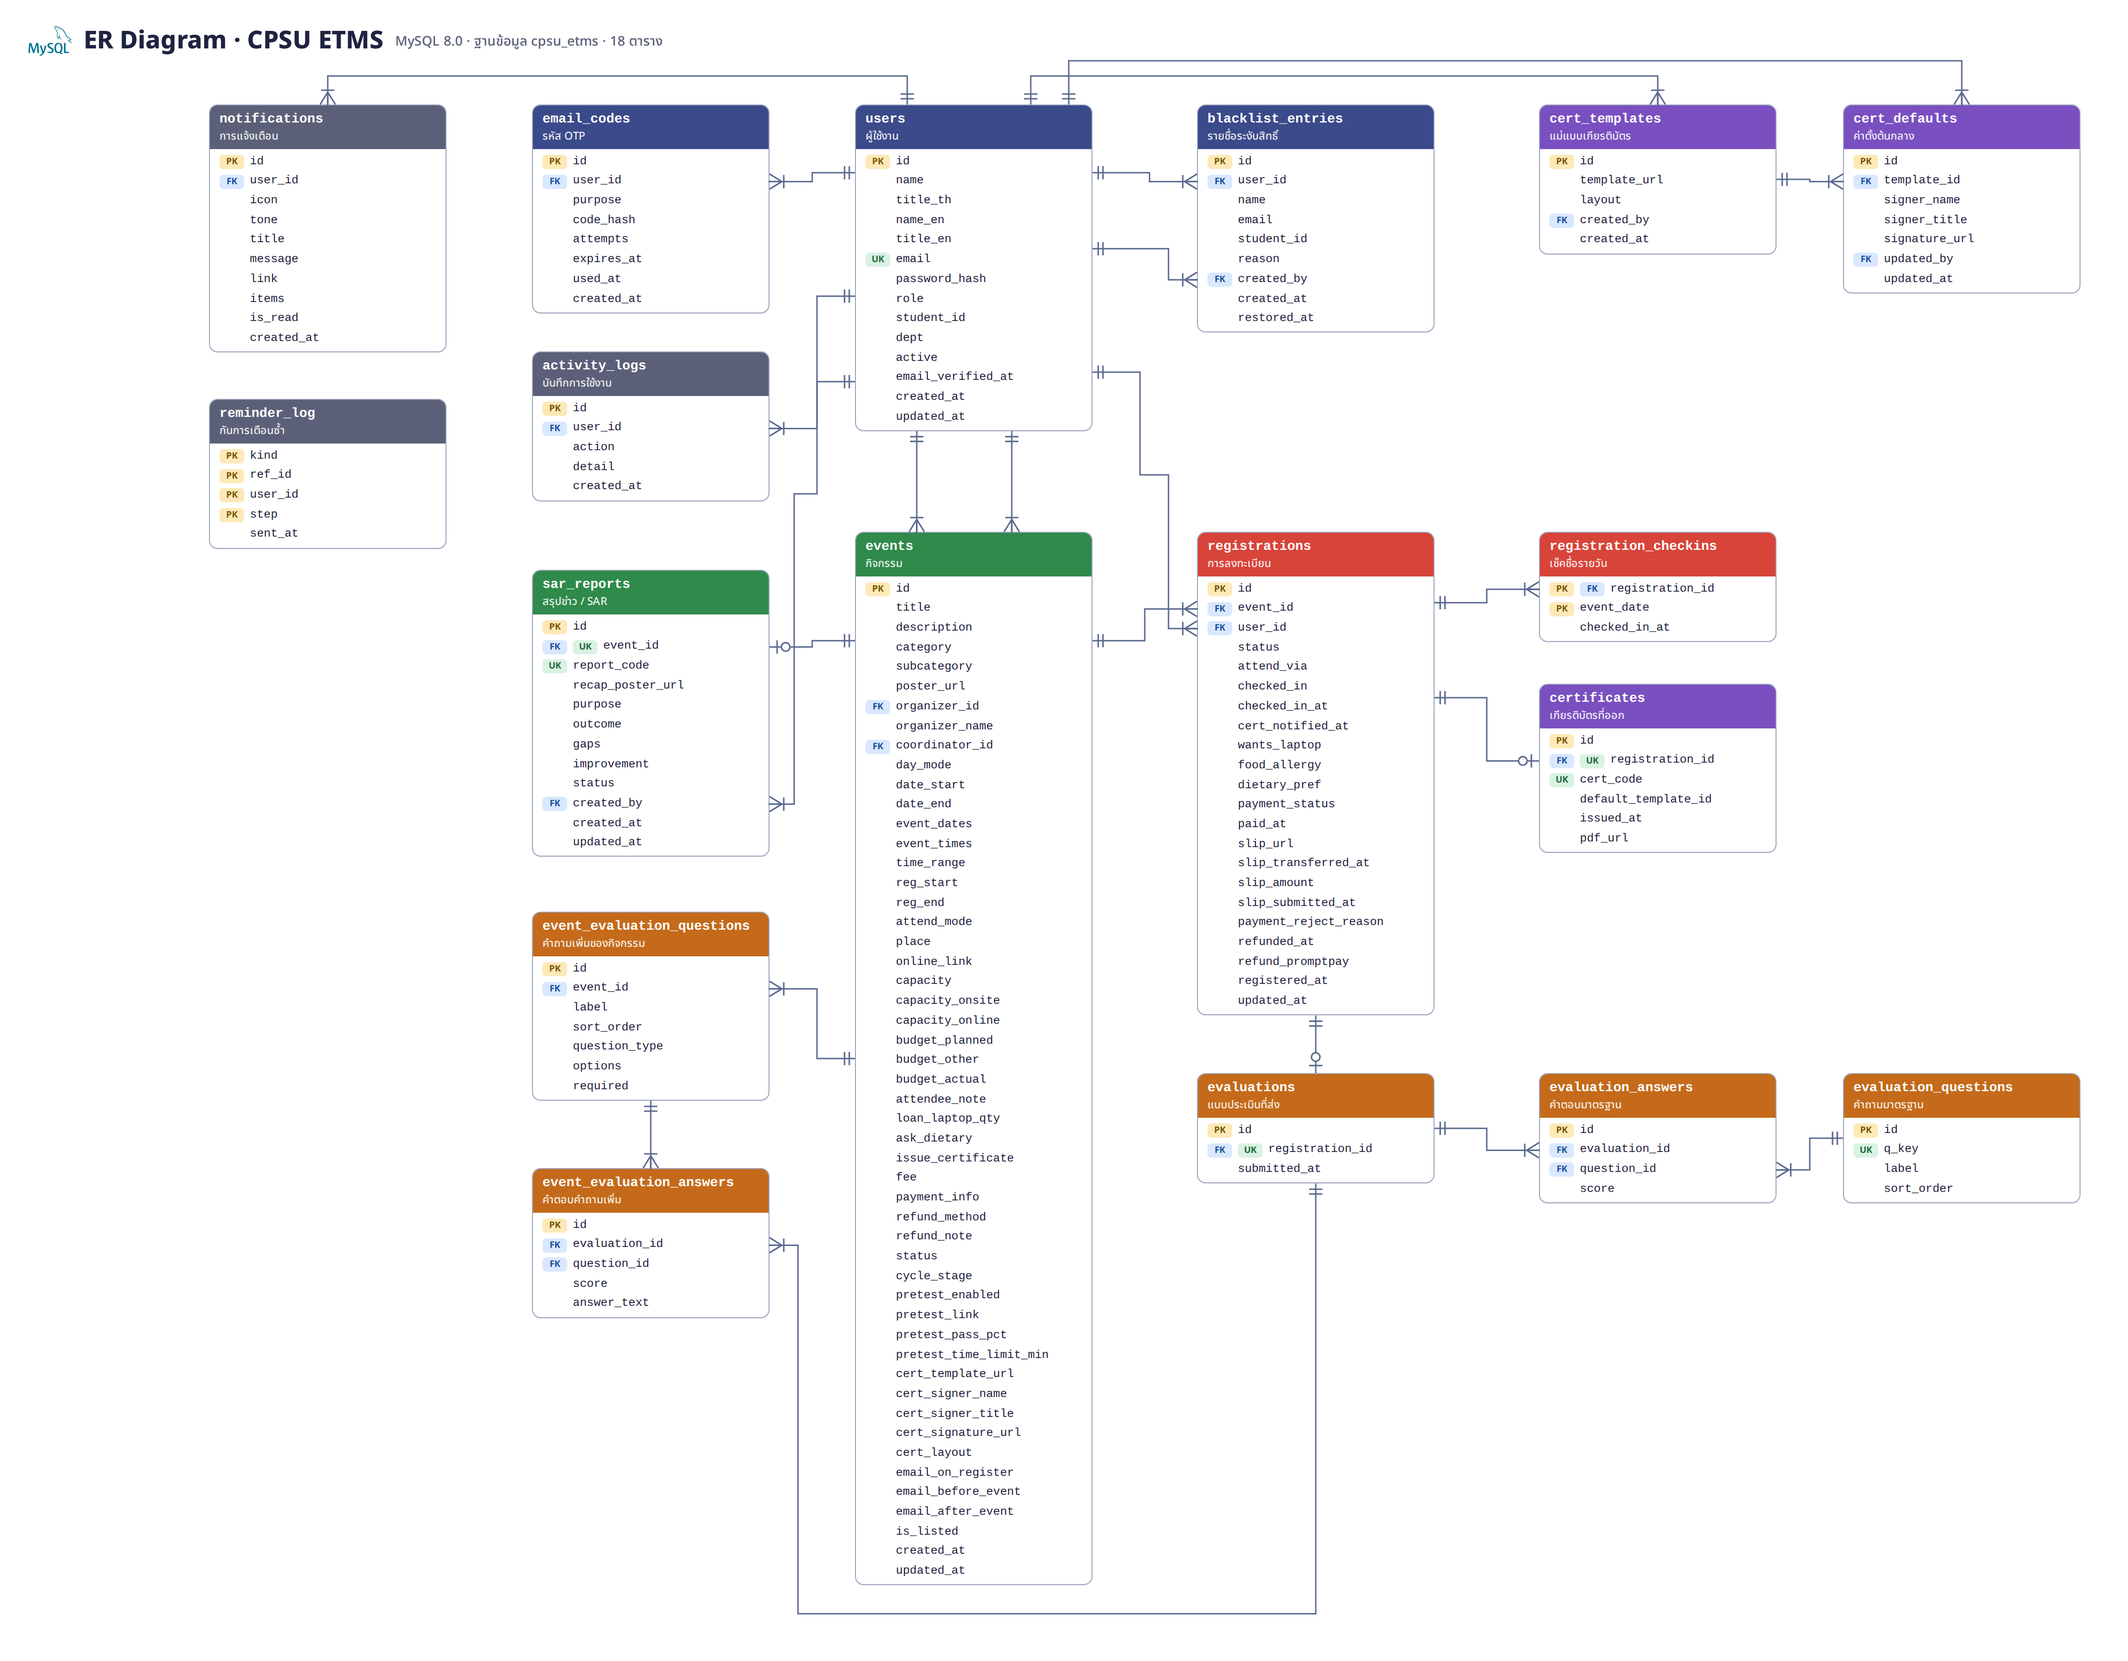
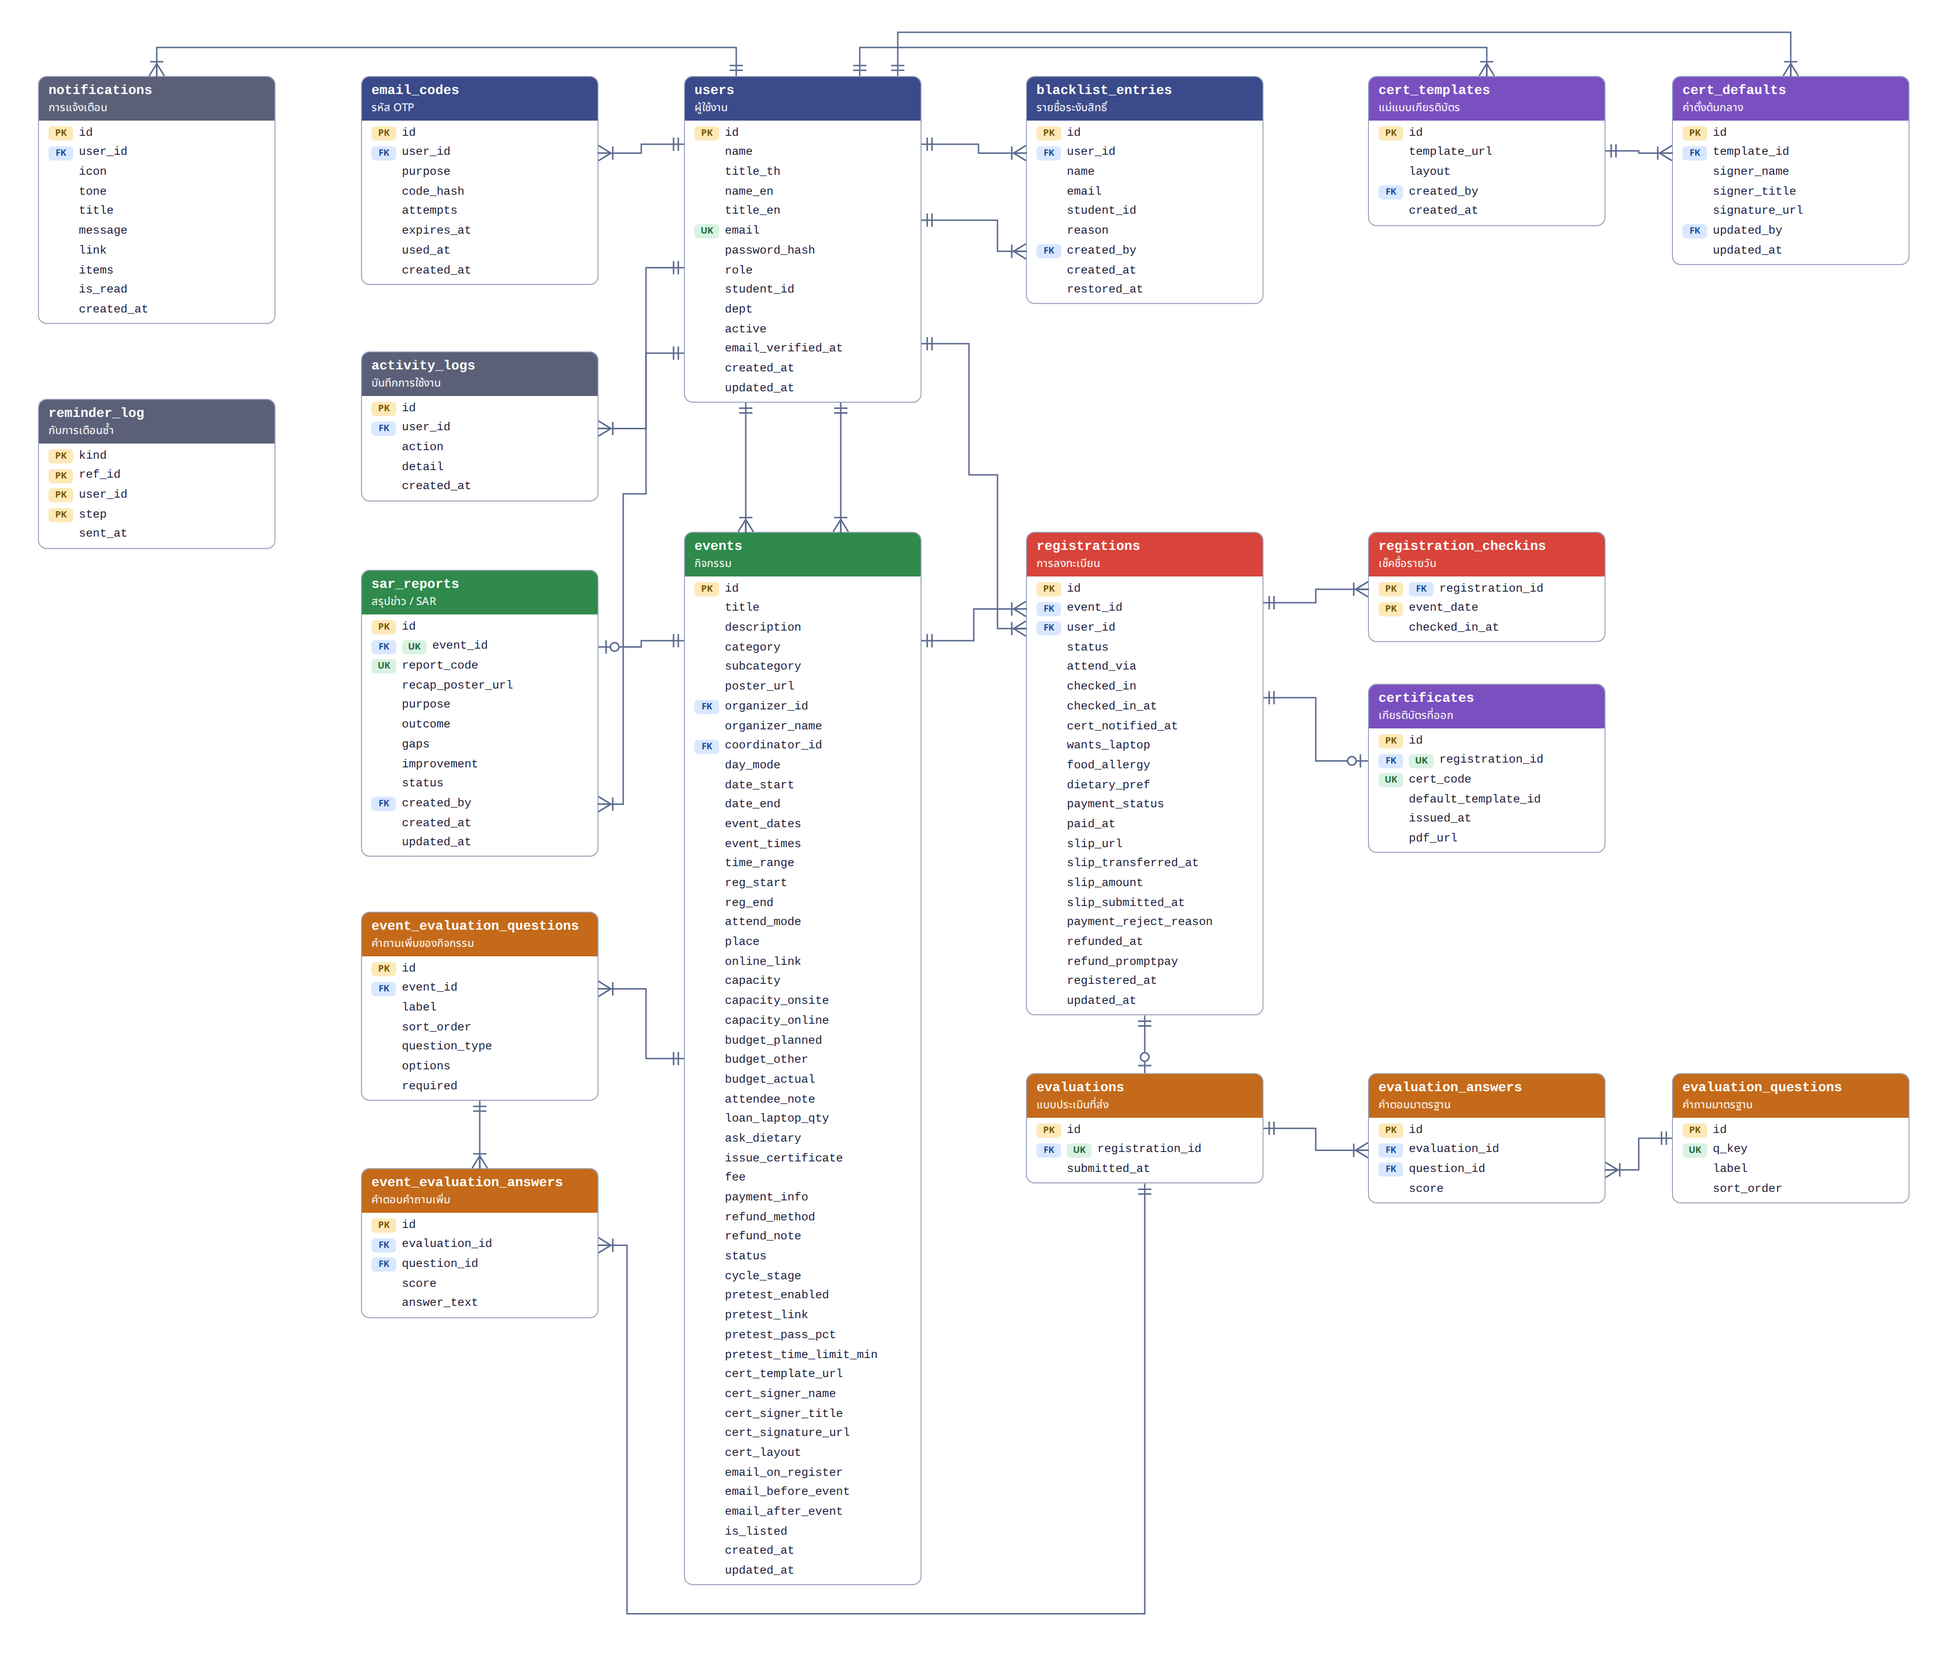
ER diagram: drop the title and close the space it left

diff --git a/docs/diagrams/src/er-diagram.html b/docs/diagrams/src/er-diagram.html
@@ -9,7 +9,7 @@
   :root{--ink:#1f2340;--muted:#5b6078}
   *{box-sizing:border-box;margin:0;padding:0}
   body{background:#fff;font-family:'Noto Sans Thai',Loma,sans-serif;color:var(--ink)}
-  #canvas{position:relative;width:2240px;height:1400px;background:#fff;overflow:hidden}
+  #canvas{position:relative;width:2060px;height:1400px;background:#fff;overflow:hidden}
   .wires{position:absolute;inset:0;pointer-events:none;overflow:visible}
   h1{position:absolute;left:30px;top:20px;font-size:26px;font-weight:800;display:flex;align-items:center;gap:12px}
   h1 img{width:46px;height:46px}
@@ -34,7 +34,6 @@
 </head>
 <body>
 <div id="canvas">
-  <h1><img src="logos/mysql.svg" alt="">ER Diagram · CPSU ETMS <small>MySQL 8.0 · ฐานข้อมูล cpsu_etms · 18 ตาราง</small></h1>
 </div>
 <script src="connect.js"></script>
 <script>
@@ -43,24 +42,24 @@
   // Every column of every table, as the database has them. UK marks a column that is
   // unique on its own (pairs such as registrations' event_id + user_id are not marked).
   const T = [
-    ["users", "user", 900, 110, "ผู้ใช้งาน", ["PK id", "name", "title_th", "name_en", "title_en", "UK email", "password_hash", "role", "student_id", "dept", "active", "email_verified_at", "created_at", "updated_at"]],
-    ["email_codes", "user", 560, 110, "รหัส OTP", ["PK id", "FK user_id", "purpose", "code_hash", "attempts", "expires_at", "used_at", "created_at"]],
-    ["activity_logs", "sys", 560, 370, "บันทึกการใช้งาน", ["PK id", "FK user_id", "action", "detail", "created_at"]],
-    ["notifications", "sys", 220, 110, "การแจ้งเตือน", ["PK id", "FK user_id", "icon", "tone", "title", "message", "link", "items", "is_read", "created_at"]],
-    ["reminder_log", "sys", 220, 420, "กันการเตือนซ้ำ", ["PK kind", "PK ref_id", "PK user_id", "PK step", "sent_at"]],
-    ["blacklist_entries", "user", 1260, 110, "รายชื่อระงับสิทธิ์", ["PK id", "FK user_id", "name", "email", "student_id", "reason", "FK created_by", "created_at", "restored_at"]],
-    ["cert_templates", "cert", 1620, 110, "แม่แบบเกียรติบัตร", ["PK id", "template_url", "layout", "FK created_by", "created_at"]],
-    ["cert_defaults", "cert", 1940, 110, "ค่าตั้งต้นกลาง", ["PK id", "FK template_id", "signer_name", "signer_title", "signature_url", "FK updated_by", "updated_at"]],
-    ["events", "event", 900, 560, "กิจกรรม", ["PK id", "title", "description", "category", "subcategory", "poster_url", "FK organizer_id", "organizer_name", "FK coordinator_id", "day_mode", "date_start", "date_end", "event_dates", "event_times", "time_range", "reg_start", "reg_end", "attend_mode", "place", "online_link", "capacity", "capacity_onsite", "capacity_online", "budget_planned", "budget_other", "budget_actual", "attendee_note", "loan_laptop_qty", "ask_dietary", "issue_certificate", "fee", "payment_info", "refund_method", "refund_note", "status", "cycle_stage", "pretest_enabled", "pretest_link", "pretest_pass_pct", "pretest_time_limit_min", "cert_template_url", "cert_signer_name", "cert_signer_title", "cert_signature_url", "cert_layout", "email_on_register", "email_before_event", "email_after_event", "is_listed", "created_at", "updated_at"]],
-    ["sar_reports", "event", 560, 600, "สรุปข่าว / SAR", ["PK id", "FK UK event_id", "UK report_code", "recap_poster_url", "purpose", "outcome", "gaps", "improvement", "status", "FK created_by", "created_at", "updated_at"]],
-    ["event_evaluation_questions", "eval", 560, 960, "คำถามเพิ่มของกิจกรรม", ["PK id", "FK event_id", "label", "sort_order", "question_type", "options", "required"]],
-    ["event_evaluation_answers", "eval", 560, 1230, "คำตอบคำถามเพิ่ม", ["PK id", "FK evaluation_id", "FK question_id", "score", "answer_text"]],
-    ["registrations", "reg", 1260, 560, "การลงทะเบียน", ["PK id", "FK event_id", "FK user_id", "status", "attend_via", "checked_in", "checked_in_at", "cert_notified_at", "wants_laptop", "food_allergy", "dietary_pref", "payment_status", "paid_at", "slip_url", "slip_transferred_at", "slip_amount", "slip_submitted_at", "payment_reject_reason", "refunded_at", "refund_promptpay", "registered_at", "updated_at"]],
-    ["registration_checkins", "reg", 1620, 560, "เช็คชื่อรายวัน", ["PK FK registration_id", "PK event_date", "checked_in_at"]],
-    ["certificates", "cert", 1620, 720, "เกียรติบัตรที่ออก", ["PK id", "FK UK registration_id", "UK cert_code", "default_template_id", "issued_at", "pdf_url"]],
-    ["evaluations", "eval", 1260, 1130, "แบบประเมินที่ส่ง", ["PK id", "FK UK registration_id", "submitted_at"]],
-    ["evaluation_answers", "eval", 1620, 1130, "คำตอบมาตรฐาน", ["PK id", "FK evaluation_id", "FK question_id", "score"]],
-    ["evaluation_questions", "eval", 1940, 1130, "คำถามมาตรฐาน", ["PK id", "UK q_key", "label", "sort_order"]]
+    ["users", "user", 720, 80, "ผู้ใช้งาน", ["PK id", "name", "title_th", "name_en", "title_en", "UK email", "password_hash", "role", "student_id", "dept", "active", "email_verified_at", "created_at", "updated_at"]],
+    ["email_codes", "user", 380, 80, "รหัส OTP", ["PK id", "FK user_id", "purpose", "code_hash", "attempts", "expires_at", "used_at", "created_at"]],
+    ["activity_logs", "sys", 380, 370, "บันทึกการใช้งาน", ["PK id", "FK user_id", "action", "detail", "created_at"]],
+    ["notifications", "sys", 40, 80, "การแจ้งเตือน", ["PK id", "FK user_id", "icon", "tone", "title", "message", "link", "items", "is_read", "created_at"]],
+    ["reminder_log", "sys", 40, 420, "กันการเตือนซ้ำ", ["PK kind", "PK ref_id", "PK user_id", "PK step", "sent_at"]],
+    ["blacklist_entries", "user", 1080, 80, "รายชื่อระงับสิทธิ์", ["PK id", "FK user_id", "name", "email", "student_id", "reason", "FK created_by", "created_at", "restored_at"]],
+    ["cert_templates", "cert", 1440, 80, "แม่แบบเกียรติบัตร", ["PK id", "template_url", "layout", "FK created_by", "created_at"]],
+    ["cert_defaults", "cert", 1760, 80, "ค่าตั้งต้นกลาง", ["PK id", "FK template_id", "signer_name", "signer_title", "signature_url", "FK updated_by", "updated_at"]],
+    ["events", "event", 720, 560, "กิจกรรม", ["PK id", "title", "description", "category", "subcategory", "poster_url", "FK organizer_id", "organizer_name", "FK coordinator_id", "day_mode", "date_start", "date_end", "event_dates", "event_times", "time_range", "reg_start", "reg_end", "attend_mode", "place", "online_link", "capacity", "capacity_onsite", "capacity_online", "budget_planned", "budget_other", "budget_actual", "attendee_note", "loan_laptop_qty", "ask_dietary", "issue_certificate", "fee", "payment_info", "refund_method", "refund_note", "status", "cycle_stage", "pretest_enabled", "pretest_link", "pretest_pass_pct", "pretest_time_limit_min", "cert_template_url", "cert_signer_name", "cert_signer_title", "cert_signature_url", "cert_layout", "email_on_register", "email_before_event", "email_after_event", "is_listed", "created_at", "updated_at"]],
+    ["sar_reports", "event", 380, 600, "สรุปข่าว / SAR", ["PK id", "FK UK event_id", "UK report_code", "recap_poster_url", "purpose", "outcome", "gaps", "improvement", "status", "FK created_by", "created_at", "updated_at"]],
+    ["event_evaluation_questions", "eval", 380, 960, "คำถามเพิ่มของกิจกรรม", ["PK id", "FK event_id", "label", "sort_order", "question_type", "options", "required"]],
+    ["event_evaluation_answers", "eval", 380, 1230, "คำตอบคำถามเพิ่ม", ["PK id", "FK evaluation_id", "FK question_id", "score", "answer_text"]],
+    ["registrations", "reg", 1080, 560, "การลงทะเบียน", ["PK id", "FK event_id", "FK user_id", "status", "attend_via", "checked_in", "checked_in_at", "cert_notified_at", "wants_laptop", "food_allergy", "dietary_pref", "payment_status", "paid_at", "slip_url", "slip_transferred_at", "slip_amount", "slip_submitted_at", "payment_reject_reason", "refunded_at", "refund_promptpay", "registered_at", "updated_at"]],
+    ["registration_checkins", "reg", 1440, 560, "เช็คชื่อรายวัน", ["PK FK registration_id", "PK event_date", "checked_in_at"]],
+    ["certificates", "cert", 1440, 720, "เกียรติบัตรที่ออก", ["PK id", "FK UK registration_id", "UK cert_code", "default_template_id", "issued_at", "pdf_url"]],
+    ["evaluations", "eval", 1080, 1130, "แบบประเมินที่ส่ง", ["PK id", "FK UK registration_id", "submitted_at"]],
+    ["evaluation_answers", "eval", 1440, 1130, "คำตอบมาตรฐาน", ["PK id", "FK evaluation_id", "FK question_id", "score"]],
+    ["evaluation_questions", "eval", 1760, 1130, "คำถามมาตรฐาน", ["PK id", "UK q_key", "label", "sort_order"]]
   ];
   const badge = (k) => `<b class="k ${k.toLowerCase()}">${k}</b>`;
   T.forEach(([id, g, x, y, note, cols]) => {
@@ -89,27 +88,27 @@
     const U = box('users');
 
     rel('email_codes', 'users', { from: 'right', to: 'left', route: 'elbow', fromShift: at('email_codes', 'user_id'), toShift: -100 });
-    rel('activity_logs', 'users', { from: 'right', to: 'left', route: 'elbow', fromShift: at('activity_logs', 'user_id'), toShift: 30, midX: 860 });
+    rel('activity_logs', 'users', { from: 'right', to: 'left', route: 'elbow', fromShift: at('activity_logs', 'user_id'), toShift: 30, midX: 680 });
     const N = box('notifications');
-    rel('notifications', 'users', { from: 'top', to: 'top', toShift: -70, via: [[N.l + N.w / 2, 80], [U.l + U.w / 2 - 70, 80]] });
+    rel('notifications', 'users', { from: 'top', to: 'top', toShift: -70, via: [[N.l + N.w / 2, 50], [U.l + U.w / 2 - 70, 50]] });
     rel('events', 'users', { from: 'top', to: 'bottom', fromShift: -60, toShift: -60 }); // organizer_id
     rel('events', 'users', { from: 'top', to: 'bottom', fromShift: 40, toShift: 40 }); // coordinator_id
-    rel('blacklist_entries', 'users', { from: 'left', to: 'right', route: 'elbow', fromShift: at('blacklist_entries', 'user_id'), toShift: -100, midX: 1210 });
-    rel('blacklist_entries', 'users', { from: 'left', to: 'right', route: 'elbow', fromShift: at('blacklist_entries', 'created_by'), toShift: -20, midX: 1230 });
+    rel('blacklist_entries', 'users', { from: 'left', to: 'right', route: 'elbow', fromShift: at('blacklist_entries', 'user_id'), toShift: -100, midX: 1030 });
+    rel('blacklist_entries', 'users', { from: 'left', to: 'right', route: 'elbow', fromShift: at('blacklist_entries', 'created_by'), toShift: -20, midX: 1050 });
     const CT = box('cert_templates'), CD = box('cert_defaults');
-    rel('cert_templates', 'users', { from: 'top', to: 'top', toShift: 60, via: [[CT.l + CT.w / 2, 80], [U.l + U.w / 2 + 60, 80]] });
-    rel('cert_defaults', 'users', { from: 'top', to: 'top', toShift: 100, via: [[CD.l + CD.w / 2, 64], [U.l + U.w / 2 + 100, 64]] });
+    rel('cert_templates', 'users', { from: 'top', to: 'top', toShift: 60, via: [[CT.l + CT.w / 2, 50], [U.l + U.w / 2 + 60, 50]] });
+    rel('cert_defaults', 'users', { from: 'top', to: 'top', toShift: 100, via: [[CD.l + CD.w / 2, 34], [U.l + U.w / 2 + 100, 34]] });
     rel('cert_defaults', 'cert_templates', { from: 'left', to: 'right', route: 'elbow', fromShift: at('cert_defaults', 'template_id') });
 
     const S = box('sar_reports'), R = box('registrations');
     rel('sar_reports', 'events', { from: 'right', to: 'left', route: 'elbow', uniq: true, fromShift: at('sar_reports', 'event_id'), toShift: -440 });
     const sy = row('sar_reports', 'created_by');
-    rel('sar_reports', 'users', { from: 'right', to: 'left', toShift: 120, fromShift: sy - (S.t + S.h / 2), via: [[S.r + 26, sy], [S.r + 26, 520], [860, 520], [860, U.t + U.h / 2 + 120]] });
-    rel('event_evaluation_questions', 'events', { from: 'right', to: 'left', route: 'elbow', fromShift: at('event_evaluation_questions', 'event_id'), toShift: 0, midX: 860 });
+    rel('sar_reports', 'users', { from: 'right', to: 'left', toShift: 120, fromShift: sy - (S.t + S.h / 2), via: [[S.r + 26, sy], [S.r + 26, 520], [680, 520], [680, U.t + U.h / 2 + 120]] });
+    rel('event_evaluation_questions', 'events', { from: 'right', to: 'left', route: 'elbow', fromShift: at('event_evaluation_questions', 'event_id'), toShift: 0, midX: 680 });
     rel('event_evaluation_answers', 'event_evaluation_questions', { from: 'top', to: 'bottom' });
     rel('registrations', 'events', { from: 'left', to: 'right', route: 'elbow', fromShift: at('registrations', 'event_id'), toShift: -440 });
     const ry = row('registrations', 'user_id');
-    rel('registrations', 'users', { from: 'left', to: 'right', toShift: 110, fromShift: ry - (R.t + R.h / 2), via: [[R.l - 30, ry], [R.l - 30, 500], [1200, 500], [1200, U.t + U.h / 2 + 110]] });
+    rel('registrations', 'users', { from: 'left', to: 'right', toShift: 110, fromShift: ry - (R.t + R.h / 2), via: [[R.l - 30, ry], [R.l - 30, 500], [1020, 500], [1020, U.t + U.h / 2 + 110]] });
     rel('registration_checkins', 'registrations', { from: 'left', to: 'right', route: 'elbow', fromShift: at('registration_checkins', 'registration_id'), toShift: -180 });
     rel('certificates', 'registrations', { from: 'left', to: 'right', route: 'elbow', uniq: true, fromShift: at('certificates', 'registration_id'), toShift: -80 });
     rel('evaluations', 'registrations', { from: 'top', to: 'bottom', uniq: true });
